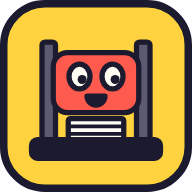
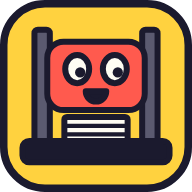
Icone più grandi, sottocartelle fino a 6 livelli, suoni e vista touch
- Mascotte più grande nelle icone Android, iPhone e favicon
- Lettura cartelle: massimo 6 livelli, voci illeggibili ignorate senza interrompere
- Su schermi touch niente riquadro di trascinamento, solo i pulsanti
- Jingle d'avvio, suono di schiacciata e fine lavoro, sintetizzati; pulsante per azzerarli

Claude-Session: https://claude.ai/code/session_01689rCLuyPpbyDNmNETSVPZ

Changed region(s): [[0.0938, 0.125, 0.9062, 0.875]]

diff --git a/index.html b/index.html
@@ -91,6 +91,16 @@ h1 span{color:var(--sun)}
 .btn[disabled]{opacity:.45;cursor:not-allowed;transform:none;box-shadow:4px 4px 0 var(--ink)}
 .vh{position:absolute;width:1px;height:1px;opacity:0;overflow:hidden}
 .hint{font-size:15px;color:var(--muted);margin:14px 0 0}
+@media (hover:none) and (pointer:coarse){
+  .tray{border:0;padding:0;background:none}
+  .tray>p,.hint.desk{display:none}
+  .tray .btn{flex:1 1 150px;text-align:center;font-size:21px;padding:14px 16px}
+}
+.snd{padding:5px 9px;line-height:0}
+.snd svg{width:24px;height:24px;display:block}
+.snd .off{display:none}
+.snd[aria-pressed="false"] .off{display:block}
+.snd[aria-pressed="false"] .on{display:none}
 
 /* forza */
 .lvls{display:grid;grid-template-columns:repeat(3,1fr);gap:12px}
@@ -118,7 +128,7 @@ h1 span{color:var(--sun)}
 #msg{font-weight:700;min-height:1.4em;margin:12px 0 0}
 #msg.bad{color:#b3170c}
 .langbar{display:flex;justify-content:flex-end;align-items:center;gap:12px;flex-wrap:wrap}
-.langbar select{margin-inline-start:auto}
+.langbar .snd{margin-inline-start:auto}
 .iosHint{margin:0;background:var(--sun);border:var(--line);border-radius:14px;padding:10px 14px;font-weight:700;box-shadow:3px 3px 0 var(--ink)}
 .langbar select{font-family:var(--body);font-weight:700;font-size:16px;color:var(--ink);background:var(--paper);border:var(--line);border-radius:12px;padding:5px 10px;box-shadow:3px 3px 0 var(--ink);cursor:pointer;max-width:100%}
 .langbar select:focus-visible{outline:4px solid var(--grape);outline-offset:3px}
@@ -137,6 +147,9 @@ details p{margin:8px 0 0;max-width:65ch}
   <div class="langbar">
     <label class="vh" for="lang" data-i18n="lang">Lingua</label>
     <button class="btn sm ok" type="button" id="installBtn" hidden data-i18n="install">Installa l'app</button>
+    <button class="btn sm alt snd" type="button" id="muteBtn" aria-pressed="true" aria-label="Suoni" data-i18n-aria="sound">
+      <svg viewBox="0 0 24 24" fill="none" stroke="currentColor" stroke-width="2.6" stroke-linecap="round" stroke-linejoin="round" aria-hidden="true"><path d="M4 9.5h3.5L12 5.5v13l-4.5-4H4z" fill="currentColor"/><path class="on" d="M15.5 9a4.5 4.5 0 0 1 0 6M18 6.5a8 8 0 0 1 0 11"/><path class="off" d="M16 9.5l5 5M21 9.5l-5 5"/></svg>
+    </button>
     <select id="lang"></select>
   </div>
   <p class="iosHint" id="iosHint" hidden data-i18n="iosHint"></p>
@@ -163,7 +176,7 @@ details p{margin:8px 0 0;max-width:65ch}
         <input class="vh" type="file" id="pickDirInput" webkitdirectory multiple tabindex="-1" aria-hidden="true">
       </div>
     </div>
-    <p class="hint" data-i18n-html="dropbox"><b>Dropbox:</b> scegli la cartella Dropbox sincronizzata sul computer. Vengono presi tutti i PDF, sottocartelle comprese.</p>
+    <p class="hint desk" data-i18n-html="dropbox"><b>Dropbox:</b> scegli la cartella Dropbox sincronizzata sul computer. Vengono presi tutti i PDF, sottocartelle comprese.</p>
   </section>
 
   <section class="panel">
@@ -278,18 +291,25 @@ $("pickDirInput").addEventListener("change",function(e){
   var fs=Array.from(e.target.files||[]);reset();
   fs.forEach(function(f){
     var rel=(f.webkitRelativePath||f.name).split("/").slice(1).join("/")||f.name;
-    if(!rel.split("/").some(function(x){return ALLDIRS[x]}))addFile(f,rel);
+    var parts=rel.split("/");
+    if(parts.length-1<=MAXDEPTH&&!parts.some(function(x){return ALLDIRS[x]||x.charAt(0)==="."}))addFile(f,rel);
   });
   readOnlyDir=true;
   e.target.value="";loaded(items.length);
 });
-async function walkHandle(dir,prefix){
-  for await(var entry of dir.values()){
-    if(entry.kind==="file"){
-      if(isPdf(entry.name))addFile(await entry.getFile(),prefix+entry.name,entry);
-    }else if(!ALLDIRS[entry.name]&&entry.name.charAt(0)!=="."){
-      await walkHandle(entry,prefix+entry.name+"/");
-    }
+var MAXDEPTH=6;
+async function walkHandle(dir,prefix,depth){
+  var list=[];
+  try{for await(var e of dir.values())list.push(e)}catch(err){return}
+  for(var i=0;i<list.length;i++){
+    var entry=list[i];
+    try{
+      if(entry.kind==="file"){
+        if(isPdf(entry.name))addFile(await entry.getFile(),prefix+entry.name,entry);
+      }else if(entry.kind==="directory"&&depth<MAXDEPTH&&!ALLDIRS[entry.name]&&entry.name.charAt(0)!=="."){
+        await walkHandle(entry,prefix+entry.name+"/",depth+1);
+      }
+    }catch(err){}
   }
 }
 $("pickDir").addEventListener("click",async function(){
@@ -298,7 +318,7 @@ $("pickDir").addEventListener("click",async function(){
     try{
       var h=await window.showDirectoryPicker({mode:"readwrite"});
       reset();say(t("reading"));
-      await walkHandle(h,"");rootDir=h;loaded(items.length);return;
+      await walkHandle(h,"",0);rootDir=h;loaded(items.length);return;
     }catch(err){
       if(err&&err.name==="AbortError")return;
     }
@@ -312,16 +332,18 @@ function readAll(reader){
     var all=[];(function next(){reader.readEntries(function(b){if(!b.length)res(all);else{all=all.concat(Array.from(b));next()}},function(){res(all)})})();
   });
 }
-async function walkEntry(entry,prefix){
-  if(entry.isFile){
-    if(isPdf(entry.name)){
-      var f=await new Promise(function(res){entry.file(res,function(){res(null)})});
-      if(f)addFile(f,prefix+entry.name);
+async function walkEntry(entry,prefix,depth){
+  try{
+    if(entry.isFile){
+      if(isPdf(entry.name)){
+        var f=await new Promise(function(res){entry.file(res,function(){res(null)})});
+        if(f)addFile(f,prefix+entry.name);
+      }
+    }else if(entry.isDirectory&&depth<=MAXDEPTH&&!ALLDIRS[entry.name]&&entry.name.charAt(0)!=="."){
+      var kids=await readAll(entry.createReader());
+      for(var i=0;i<kids.length;i++)await walkEntry(kids[i],prefix+entry.name+"/",depth+1);
     }
-  }else if(entry.isDirectory&&!ALLDIRS[entry.name]){
-    var kids=await readAll(entry.createReader());
-    for(var i=0;i<kids.length;i++)await walkEntry(kids[i],prefix+entry.name+"/");
-  }
+  }catch(err){}
 }
 var tray=$("tray");
 ["dragenter","dragover"].forEach(function(t){tray.addEventListener(t,function(e){e.preventDefault();tray.classList.add("over")})});
@@ -333,7 +355,7 @@ tray.addEventListener("drop",async function(e){
     for(var i=0;i<dt.items.length;i++){var en=dt.items[i].webkitGetAsEntry();if(en)entries.push(en)}
   }
   rootDir=null;
-  if(entries.length){for(var j=0;j<entries.length;j++)await walkEntry(entries[j],"")}
+  if(entries.length){for(var j=0;j<entries.length;j++)await walkEntry(entries[j],"",0)}
   else Array.from(dt.files||[]).forEach(function(f){addFile(f)});
   loaded(items.length-before);
 });
@@ -483,7 +505,7 @@ goBtn.addEventListener("click",async function(){
   items.forEach(function(it){it.status="wait";it.out=null;it.note="";it.pct=0;it.size=it.file.size});
   render();
   for(var i=0;i<items.length;i++){
-    var it=items[i];it.status="work";render();
+    var it=items[i];it.status="work";render();squashSound();
     try{
       var last=-1;
       var r=await squeezePdf(it,preset,function(p){if(p-last>=5){last=p;it.pct=p;render()}});
@@ -498,6 +520,7 @@ goBtn.addEventListener("click",async function(){
   busy=false;press.classList.remove("busy");render();
   var ok=items.filter(function(x){return x.status==="done"}).length;
   say(ok?t("done",{ok:nf(ok),n:nf(items.length)}):t("none"),!ok);
+  if(ok)sfx(playDone);
 });
 
 /* ---------- salvataggio ---------- */
@@ -594,6 +617,74 @@ sel.addEventListener("change",function(){
 });
 lang=pickLang();sel.value=lang;applyLang();
 
+/* ---------- suoni: tutto sintetizzato qui, nessun file audio ---------- */
+var AC=window.AudioContext||window.webkitAudioContext,actx=null,muted=false,jingleDone=false,lastSquash=0;
+try{muted=localStorage.getItem("mute")==="1"}catch(e){}
+var muteBtn=$("muteBtn");
+function showMute(){muteBtn.setAttribute("aria-pressed",muted?"false":"true")}
+function audio(){
+  if(!AC||muted)return null;
+  try{if(!actx)actx=new AC()}catch(e){return null}
+  return actx;
+}
+function tone(c,type,f0,f1,t0,dur,vol){
+  var o=c.createOscillator(),g=c.createGain();
+  o.type=type;o.frequency.setValueAtTime(f0,t0);
+  if(f1!==f0)o.frequency.exponentialRampToValueAtTime(f1,t0+dur);
+  g.gain.setValueAtTime(.0001,t0);g.gain.exponentialRampToValueAtTime(vol,t0+.012);g.gain.exponentialRampToValueAtTime(.0001,t0+dur);
+  o.connect(g);g.connect(c.destination);o.start(t0);o.stop(t0+dur+.03);
+}
+function hiss(c,t0,dur,vol,f0,f1){
+  var n=Math.floor(c.sampleRate*dur),buf=c.createBuffer(1,n,c.sampleRate),d=buf.getChannelData(0);
+  for(var i=0;i<n;i++)d[i]=Math.random()*2-1;
+  var s=c.createBufferSource(),f=c.createBiquadFilter(),g=c.createGain();
+  s.buffer=buf;f.type="bandpass";f.Q.value=1.2;
+  f.frequency.setValueAtTime(f0,t0);f.frequency.exponentialRampToValueAtTime(f1,t0+dur);
+  g.gain.setValueAtTime(.0001,t0);g.gain.exponentialRampToValueAtTime(vol,t0+.02);g.gain.exponentialRampToValueAtTime(.0001,t0+dur);
+  s.connect(f);f.connect(g);g.connect(c.destination);s.start(t0);
+}
+/* jingle d'avvio: quattro note che salgono, uno scivolo e un tonfo morbido */
+function playJingle(c){
+  var t=c.currentTime+.04,notes=[523.25,659.25,783.99,1046.5];
+  notes.forEach(function(f,i){tone(c,"triangle",f,f,t+i*.1,.16,.16);tone(c,"square",f*2,f*2,t+i*.1,.07,.03)});
+  tone(c,"triangle",1046.5,1568,t+.42,.2,.15);
+  tone(c,"sine",180,60,t+.64,.2,.32);
+  hiss(c,t+.62,.14,.07,1800,500);
+}
+/* schiacciata: fischio che scende, sbuffo d'aria, tonfo */
+function playSquash(c){
+  var t=c.currentTime+.02;
+  tone(c,"sawtooth",620,90,t,.26,.07);
+  tone(c,"triangle",900,140,t,.26,.1);
+  hiss(c,t+.08,.3,.16,2600,350);
+  tone(c,"sine",150,42,t+.25,.26,.5);
+}
+function playDone(c){
+  var t=c.currentTime+.02;
+  tone(c,"triangle",659.25,659.25,t,.14,.15);tone(c,"triangle",987.77,987.77,t+.12,.3,.16);
+}
+function sfx(fn){
+  var c=audio();if(!c)return;
+  if(c.state==="running"){fn(c);return}
+  try{c.resume().then(function(){fn(c)}).catch(function(){})}catch(e){}
+}
+function squashSound(){var now=Date.now();if(now-lastSquash<700)return;lastSquash=now;sfx(playSquash)}
+function startJingle(){
+  if(jingleDone||muted)return;
+  var c=audio();if(!c)return;
+  if(c.state==="running"){jingleDone=true;playJingle(c)}
+}
+function firstTouch(){
+  if(!jingleDone&&!muted){jingleDone=true;sfx(playJingle)}
+  window.removeEventListener("pointerdown",firstTouch,true);window.removeEventListener("keydown",firstTouch,true);
+}
+muteBtn.addEventListener("click",function(){
+  muted=!muted;try{localStorage.setItem("mute",muted?"1":"0")}catch(e){}
+  showMute();if(!muted){jingleDone=true;sfx(playDone)}
+});
+showMute();startJingle();
+if(!jingleDone){window.addEventListener("pointerdown",firstTouch,true);window.addEventListener("keydown",firstTouch,true)}
+
 /* ---------- installazione ---------- */
 var instBtn=$("installBtn"),iosHint=$("iosHint"),deferred=null;
 var standalone=(window.matchMedia&&matchMedia("(display-mode: standalone)").matches)||navigator.standalone===true;
@@ -602,6 +693,7 @@ var isIOS=/iPad|iPhone|iPod/.test(ua)||(navigator.platform==="MacIntel"&&navigat
 window.addEventListener("beforeinstallprompt",function(e){e.preventDefault();deferred=e;if(!standalone)instBtn.hidden=false});
 window.addEventListener("appinstalled",function(){deferred=null;instBtn.hidden=true;iosHint.hidden=true});
 if(isIOS&&!standalone)instBtn.hidden=false;
+if(isIOS)$("pickDir").hidden=true;
 instBtn.addEventListener("click",async function(){
   if(deferred){
     var d=deferred;deferred=null;

diff --git a/i18n.js b/i18n.js
@@ -39,6 +39,7 @@ it: {
   overStop: "Scrittura interrotta dopo {n} file. Gli altri originali sono intatti.",
   install: "Installa l'app",
   iosHint: "Su iPhone e iPad: tocca Condividi, poi «Aggiungi alla schermata Home».",
+  sound: "Suoni",
   lang: "Lingua"
 },
 en: {
@@ -79,6 +80,7 @@ en: {
   overStop: "Writing stopped after {n} files. The other originals are untouched.",
   install: "Install the app",
   iosHint: "On iPhone and iPad: tap Share, then “Add to Home Screen”.",
+  sound: "Sound",
   lang: "Language"
 },
 zh: {
@@ -119,6 +121,7 @@ zh: {
   overStop: "写入了 {n} 个文件后中断，其余原文件没有改动。",
   install: "安装应用",
   iosHint: "在 iPhone 和 iPad 上：点一下分享按钮，再选「添加到主屏幕」。",
+  sound: "声音",
   lang: "语言"
 },
 hi: {
@@ -159,6 +162,7 @@ hi: {
   overStop: "{n} फ़ाइलों के बाद लिखना रुक गया। बाक़ी मूल फ़ाइलें जैसी थीं वैसी हैं।",
   install: "ऐप इंस्टॉल करें",
   iosHint: "iPhone और iPad पर: शेयर बटन दबाएँ, फिर “होम स्क्रीन में जोड़ें” चुनें।",
+  sound: "आवाज़",
   lang: "भाषा"
 },
 es: {
@@ -199,6 +203,7 @@ es: {
   overStop: "La escritura se ha interrumpido tras {n} archivos. Los demás originales siguen intactos.",
   install: "Instalar la app",
   iosHint: "En iPhone y iPad: toca Compartir y luego «Añadir a pantalla de inicio».",
+  sound: "Sonido",
   lang: "Idioma"
 },
 fr: {
@@ -239,6 +244,7 @@ fr: {
   overStop: "Écriture interrompue après {n} fichiers. Les autres originaux sont intacts.",
   install: "Installer l'appli",
   iosHint: "Sur iPhone et iPad : touchez Partager, puis « Sur l'écran d'accueil ».",
+  sound: "Sons",
   lang: "Langue"
 },
 ar: {
@@ -279,6 +285,7 @@ ar: {
   overStop: "توقفت الكتابة بعد {n} ملفات. بقية الملفات الأصلية كما هي.",
   install: "ثبّت التطبيق",
   iosHint: "على iPhone و iPad: اضغط زر المشاركة ثم اختر «إضافة إلى الشاشة الرئيسية».",
+  sound: "الصوت",
   lang: "اللغة"
 },
 bn: {
@@ -319,6 +326,7 @@ bn: {
   overStop: "{n}টি ফাইলের পর লেখা থেমে গেছে। বাকি আসল ফাইল যেমন ছিল তেমনই আছে।",
   install: "অ্যাপ ইনস্টল করুন",
   iosHint: "iPhone ও iPad-এ: শেয়ার বোতামে চাপ দিন, তারপর “হোম স্ক্রিনে যোগ করুন” বেছে নিন।",
+  sound: "শব্দ",
   lang: "ভাষা"
 },
 pt: {
@@ -359,6 +367,7 @@ pt: {
   overStop: "A gravação parou depois de {n} arquivos. Os outros originais continuam intactos.",
   install: "Instalar o app",
   iosHint: "No iPhone e no iPad: toque em Compartilhar e depois em “Adicionar à Tela de Início”.",
+  sound: "Som",
   lang: "Idioma"
 },
 ru: {
@@ -399,6 +408,7 @@ ru: {
   overStop: "Запись прервалась, записано файлов: {n}. Остальные оригиналы не тронуты.",
   install: "Установить приложение",
   iosHint: "На iPhone и iPad: нажмите «Поделиться», затем «На экран „Домой“».",
+  sound: "Звук",
   lang: "Язык"
 },
 ur: {
@@ -439,6 +449,7 @@ ur: {
   overStop: "{n} فائلوں کے بعد لکھنا رک گیا۔ باقی اصل فائلیں جوں کی توں ہیں۔",
   install: "ایپ انسٹال کریں",
   iosHint: "iPhone اور iPad پر: شیئر کا بٹن دبائیں، پھر ”ہوم اسکرین میں شامل کریں“ چنیں۔",
+  sound: "آواز",
   lang: "زبان"
 },
 id: {
@@ -479,6 +490,7 @@ id: {
   overStop: "Penulisan terhenti setelah {n} file. File asli lainnya tetap utuh.",
   install: "Pasang aplikasi",
   iosHint: "Di iPhone dan iPad: ketuk Bagikan, lalu “Tambah ke Layar Utama”.",
+  sound: "Suara",
   lang: "Bahasa"
 },
 de: {
@@ -519,6 +531,7 @@ de: {
   overStop: "Schreiben nach {n} Dateien abgebrochen. Die übrigen Originale sind unverändert.",
   install: "App installieren",
   iosHint: "Auf iPhone und iPad: auf „Teilen“ tippen, dann „Zum Home-Bildschirm“.",
+  sound: "Ton",
   lang: "Sprache"
 }
 };
